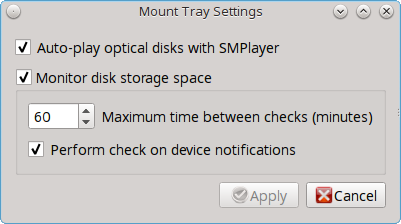
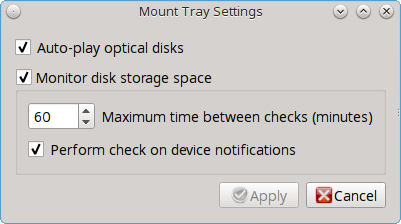
Update screenshot and surrounding text.  Translate: YES

Changed region(s): [[0.4489, 0.1875, 0.7182, 0.25]]

diff --git a/src-qt5/docs/controlpanel.rst b/src-qt5/docs/controlpanel.rst
@@ -1027,8 +1027,9 @@ manager, then press "Eject" again. This will ensure that the device is cleanly u
 
 .. note:: while Mount Tray will allow you to physically remove a USB device without unmounting it first, it is recommended to always "Eject" the drive first.
 
-When you first insert an optical media, such as a music CD or DVD video, a message will indicate that an optical disk is available and, by default, the
-`SMPlayer <http://smplayer.sourceforge.net/>`_ application will open so that you can play the contents of the disk. If you close the player, you can click
+When you first insert an optical media, such as a music CD or DVD video, a message will indicate that an optical disk is available and, by default, the default player
+application will open so that you can play the contents of the disk. The default player that is used depends upon which applications have been installed, where
+`VLC <http://www.videolan.org/vlc/>`_ takes precedence, followed by `SMPlayer <http://smplayer.sourceforge.net/>`_. If you close the player, you can click
 the "Play" button shown in :numref:`Figure %s: Mount Tray Example <mount1>` to restart it.
 
 The following options are available in the "More Options" menu: 
@@ -1049,7 +1050,7 @@ The following options are available in the "More Options" menu:
   unmounted, the memory disk is also detached from the system.
 
 * **Change Settings:** as seen in :numref:`Figure %s: Configure Disk Space Check <mount3a>`, this screen allows you to configure whether or not optical disks automatically open using
-  `SMPLayer <http://www.smplayer.eu/>`_, whether or not Mount Tray automatically rechecks the disk space used by mounted devices and how often to perform that check, and whether or not
+  the default player, whether or not Mount Tray automatically rechecks the disk space used by mounted devices and how often to perform that check, and whether or not
   Mount Tray checks disk space when a disk is mounted.
 
 * **Close Tray:** click this option to remove Mount Tray from the system tray.

diff --git a/src-qt5/docs/introduction.rst b/src-qt5/docs/introduction.rst
@@ -169,7 +169,7 @@ The following features or enhancements were introduced for PC-BSD® |version|:
 
 * The "Search all available PBIs and packages" checkbox has been renamed to "Search all available software" in :menuselection:`AppCafe® --> App Search`.
 
-* The "Auto-play optical disks with SMPlayer" checkbox has been added to :menuselection:`Mount Tray --> More Options --> Change Settings`.
+* The "Auto-play optical disks" checkbox has been added to :menuselection:`Mount Tray --> More Options --> Change Settings`.
 
 .. index:: Linux
 .. _PC-BSD® for Linux Users:
